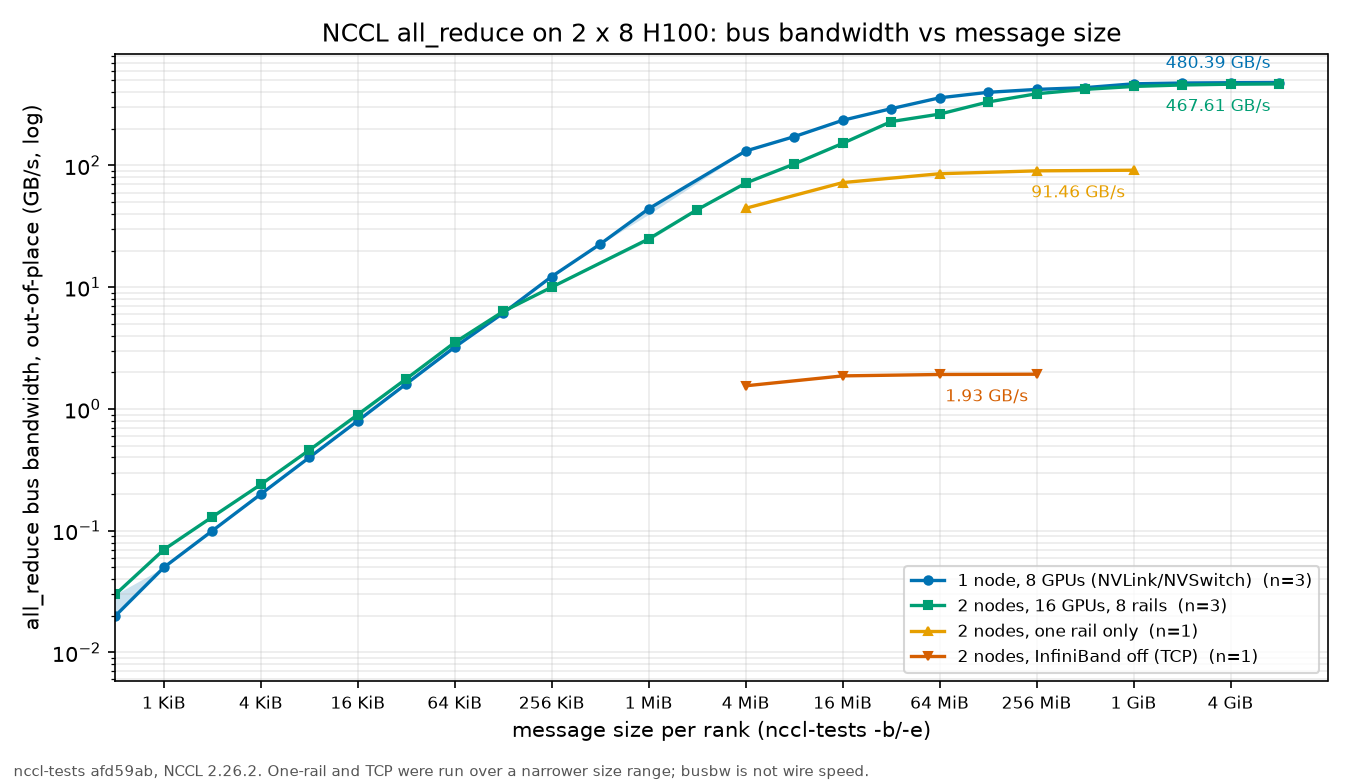
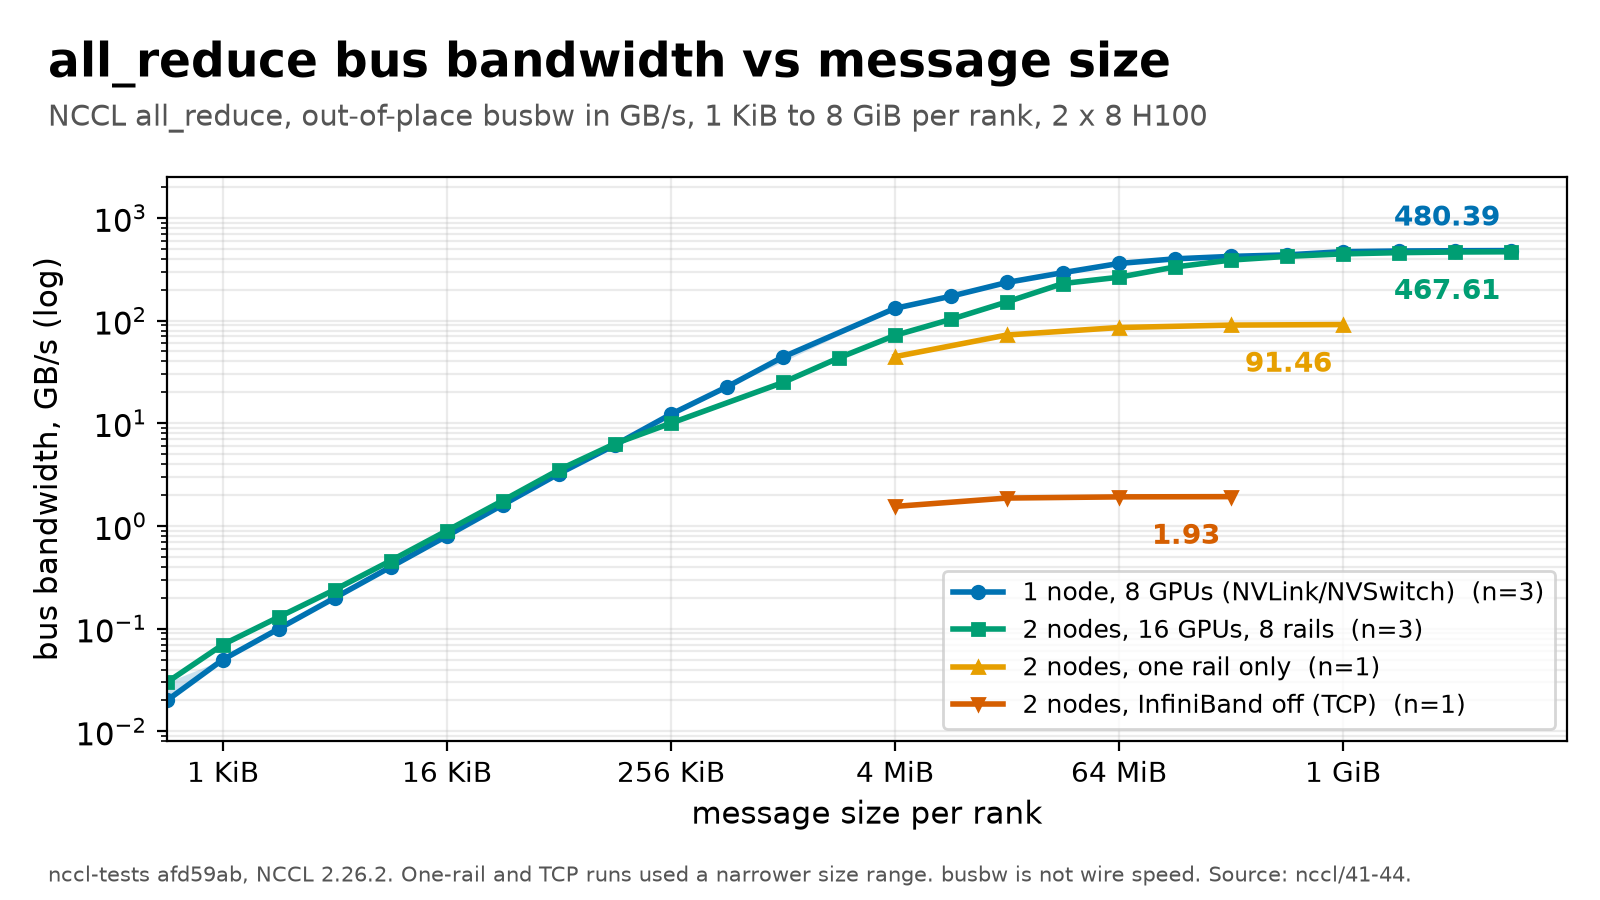
content(lab): add the degradation ladder, rail topology and algorithm figures to part 2
Restyled busbw and per-rail plots from gpu-fleet-ops (data unchanged).

Claude-Session: https://claude.ai/code/session_012VhweeGBN67HAX7HxehgBw

diff --git a/content/lab/two-h100-nodes-eight-rails-what-the-fabric-actually-does.md b/content/lab/two-h100-nodes-eight-rails-what-the-fabric-actually-does.md
@@ -35,6 +35,8 @@ a yardstick that makes different GPU counts comparable. It is not wire speed.
 I also ran a ResNet-50 DDP job (synthetic data) on 1, 8 and 16 GPUs, which is the least
 interesting result and is in the repo.
 
+![What a tenant can see: each GPU's PCIe-local adapter, one rail each, and a switch layer that stays invisible](/img/lab/rail_topology.png)
+
 ## What I measured
 
 Raw files and scripts are in [gpu-fleet-ops](https://github.com/joanmarcriera/gpu-fleet-ops/tree/main/results/2026-10-12-2x8xH100-ib);
@@ -55,6 +57,8 @@ case. 480 is above the roughly 450 GB/s per-direction NVLink 4 bandwidth that ca
 Forcing the algorithm on one node shows what: NVLS (reduction inside the NVSwitch) 481.0,
 Ring 368.4, Tree 298.1 GB/s. Across two nodes a forced Ring gave 332.1.
 
+![all_reduce busbw at 8 GiB with NCCL_ALGO forced, against the NVLink 4 ring ceiling](/img/lab/algorithms.png)
+
 **Breaking it.** Same two nodes, same binary, same correctness check (`#wrong` is 0 in every
 run):
 
@@ -63,6 +67,8 @@ run):
 | eight rails (default) | 1 GiB | 444 to 446 GB/s | `NET/SPCX_v10 ... GDRDMA` |
 | one rail (`mlx5_0`) | 1 GiB | 91.5 GB/s | same plugin, one adapter |
 | InfiniBand off | 256 MiB | 1.93 GB/s | `NET/Socket` over `eth0` |
+
+![The same three configurations at one message size, 256 MiB: 388, 90 and 1.93 GB/s](/img/lab/degradation_ladder.png)
 
 ![all_reduce bus bandwidth against message size: one node, two nodes, one rail, TCP](/img/lab/busbw_vs_size.png)
 
